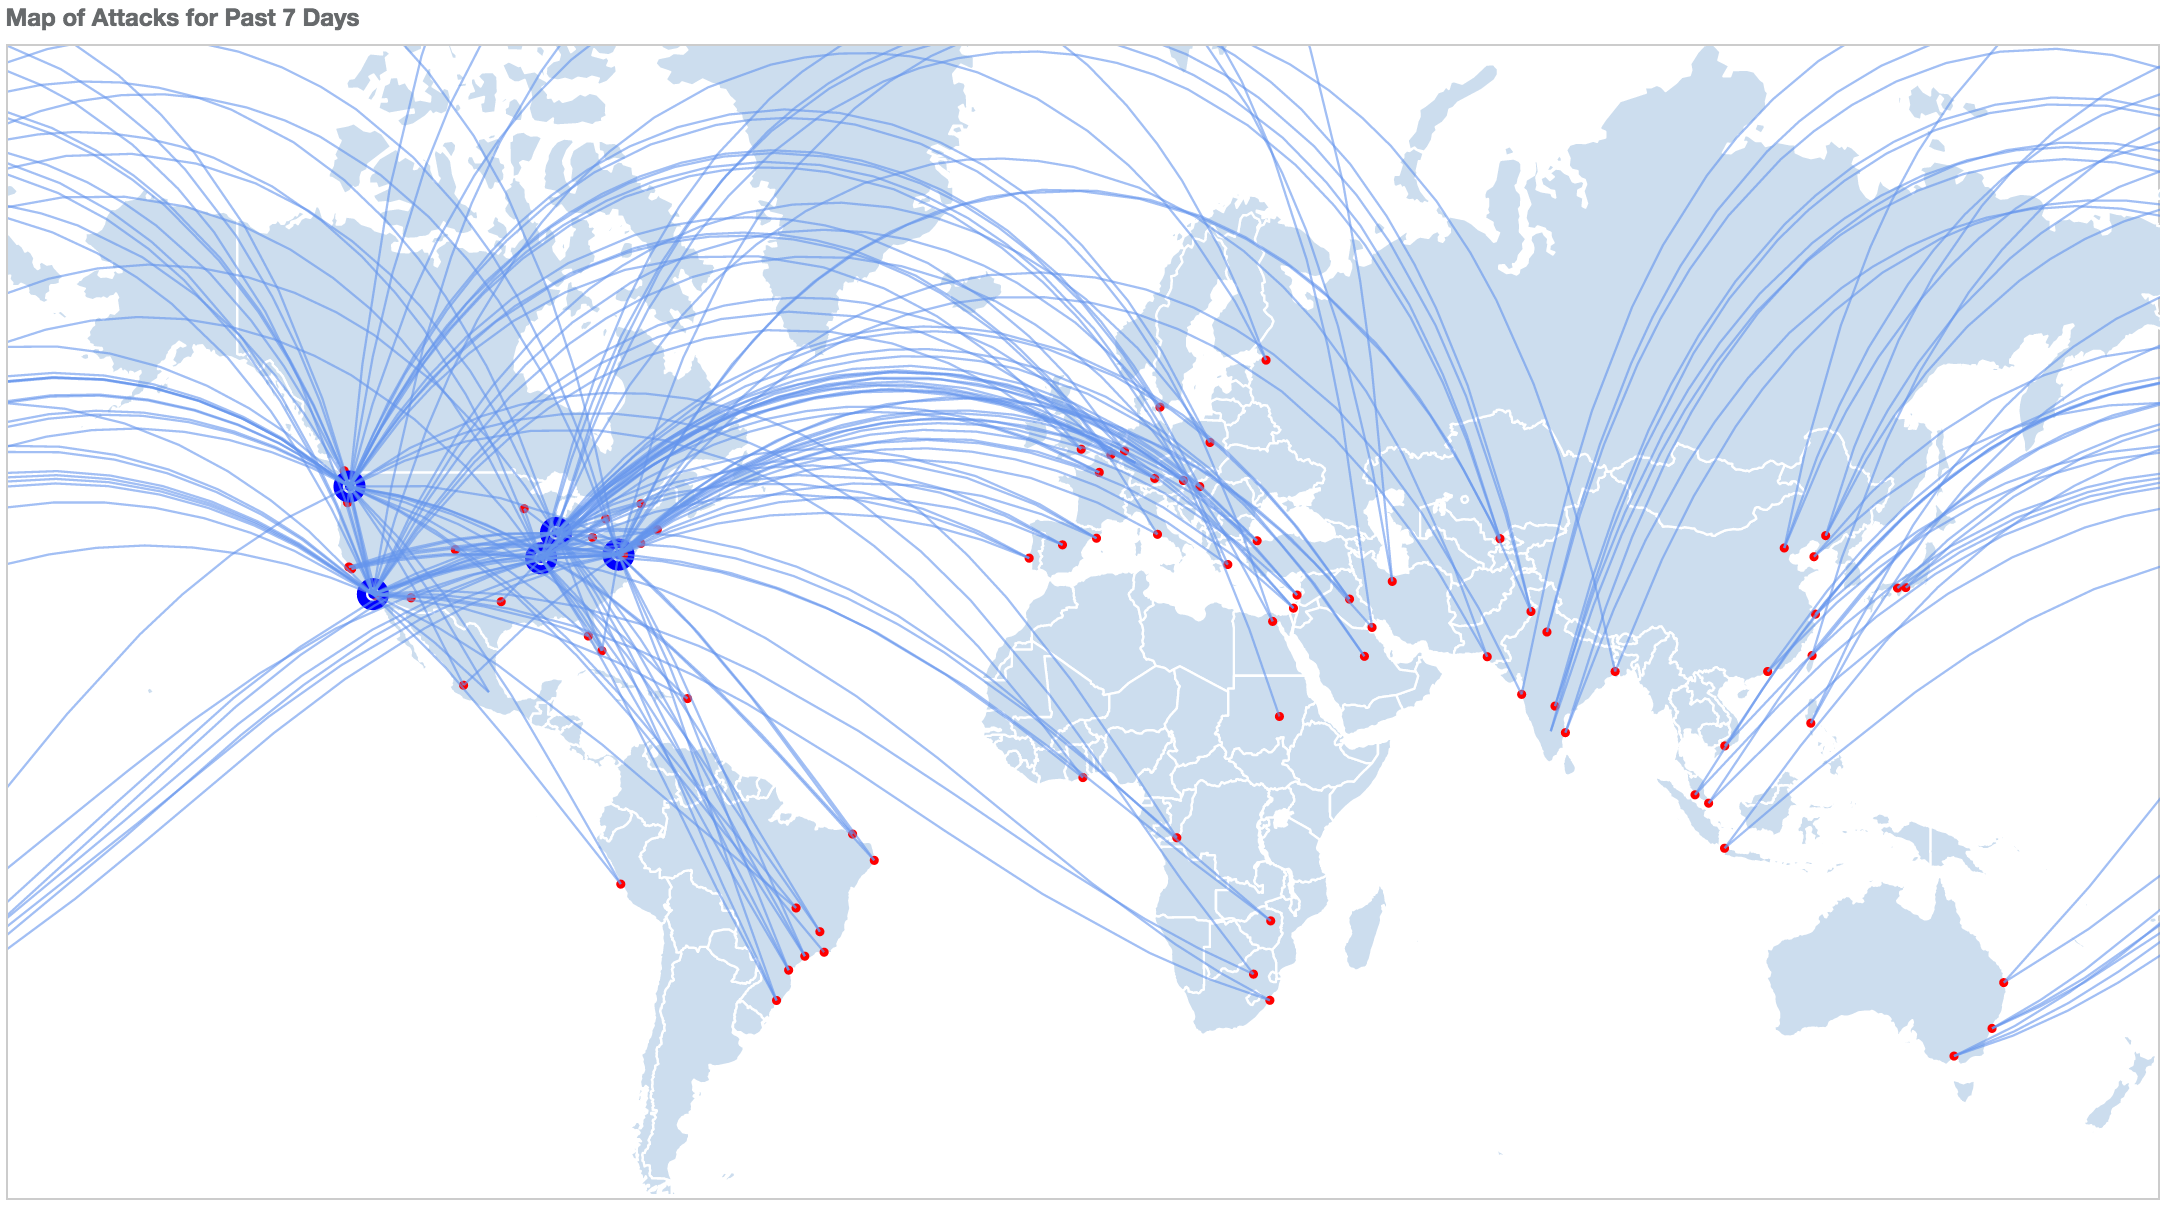
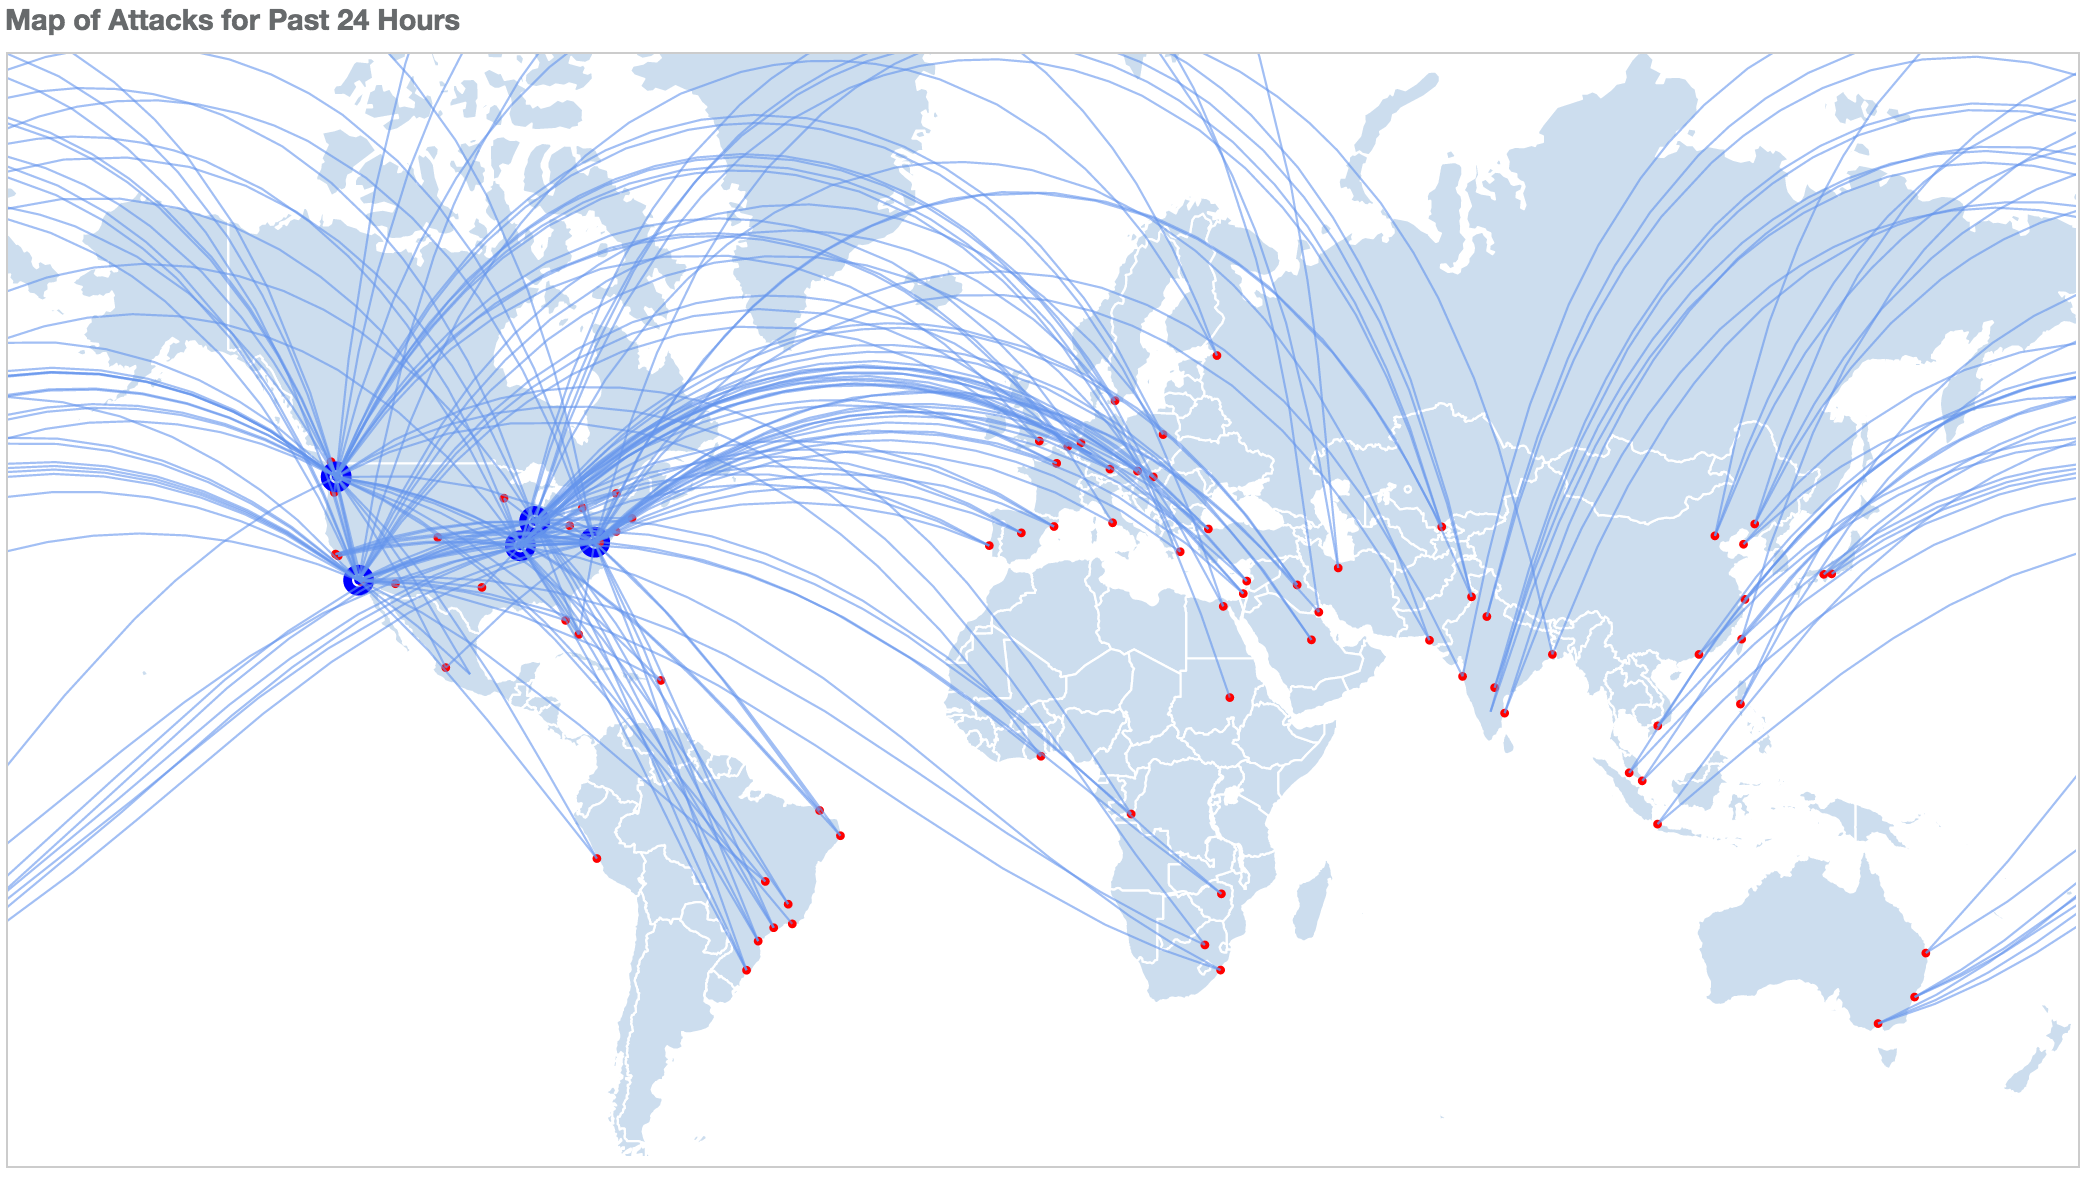
changed title

diff --git a/dashboard_2.html b/dashboard_2.html
@@ -448,19 +448,19 @@
                                         <h5>Map</h5>
                                         <div class="pull-right">
                                         <div class="btn-group">
-                                            <button type="button" class="btn btn-xs btn-white">See More</button>
+                                            <button type="button" class="btn btn-xs btn-white"><a href="map.html">See More</a></button>
                                         </div>
-                                </div>
+                                        </div>
                                     </div>
                                     <div class="ibox-content">
 
                                         <div class="row">
                                             <div class="col-lg-6">
-                                                
+                                       
                                             </div>
                                             <div class="col-lg-12">
                                                 <div id="map">
-                                                    <img src="map.png" height="365px">
+                                                    <img src="map.png" width="100%">
                                                 </div>
 
 

diff --git a/map.html b/map.html
@@ -126,15 +126,9 @@
             <div class="row">
                 <div class="col-lg-12 col-lg-offset-1">
                     <div class="ibox">
-                        <h3>Map of Attacks for Past 7 Days</h3>
+                        <h3>Map of Attacks for Past 24 Hours</h3>
                         <div id="filters">
                           <p>Filter By</p>
-                          <!-- <div>
-                            <button>Number of Attacks</button><br>
-                            <input type="checkbox" id='ln' name="low">0-50<br>
-                            <input type="checkbox" id='mn' name="med">50-100<br>
-                            <input type="checkbox" id='hn' name="high">100+<br>
-                          </div> -->
                           <div>
                             <button>Severity</button><br>
                             <input type="checkbox" id="p1" name="low" value="low">Priority 1<br>
